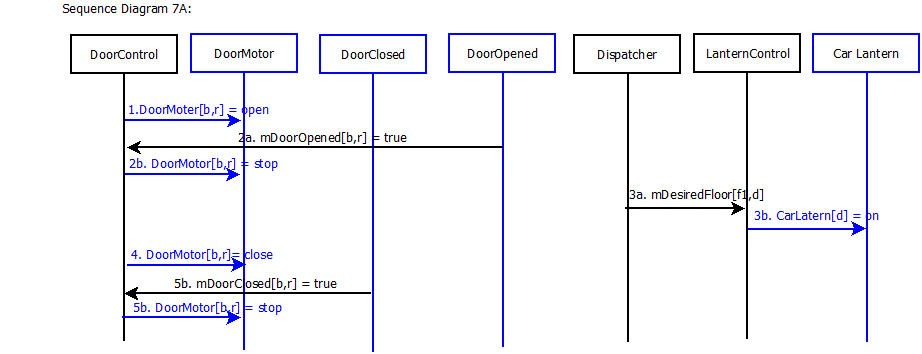
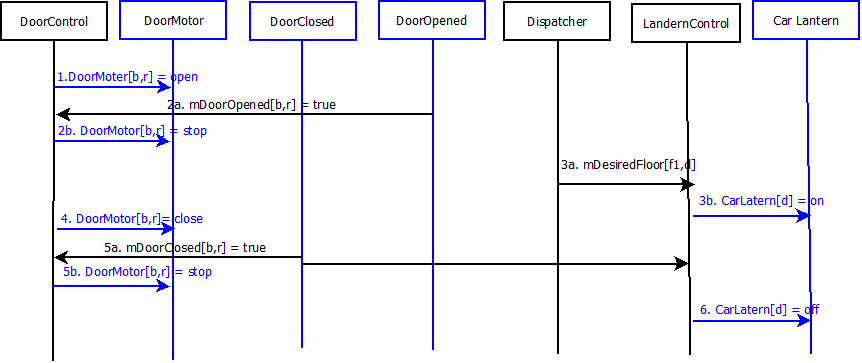
update scen_sd 7a add lantern off

Changed region(s): [[0.0, 0.0, 1.0, 0.9944]]

diff --git a/scen_sd/scen_sd.html b/scen_sd/scen_sd.html
@@ -482,6 +482,7 @@
         </li>
         <li>Door[<b>b,r</b>] starts close.</li>
         <li>Door[<b>b,r</b>] completes closing.</li>
+        <li>CarLartern[d] turns off.</li>
       </ol>
       <ul>
       </ul>
@@ -489,6 +490,8 @@
       </h3>
       <ul>
         <li>All doors are closed.</li>
+        <li>All CarLanterns are off.<br>
+        </li>
         <li>Elevator is at floor <b>f</b>, intends to move in direction
           <b>d</b>.</li>
       </ul>
@@ -591,6 +594,7 @@
         <li>Car starts moving towards floor <b>g</b>. </li>
         <li>Car arrives at floor <b>g</b>. </li>
         <li>Drive() is set to <b>Stop</b> for diresction <b>Stop</b>.&nbsp;
+
 
 
 
